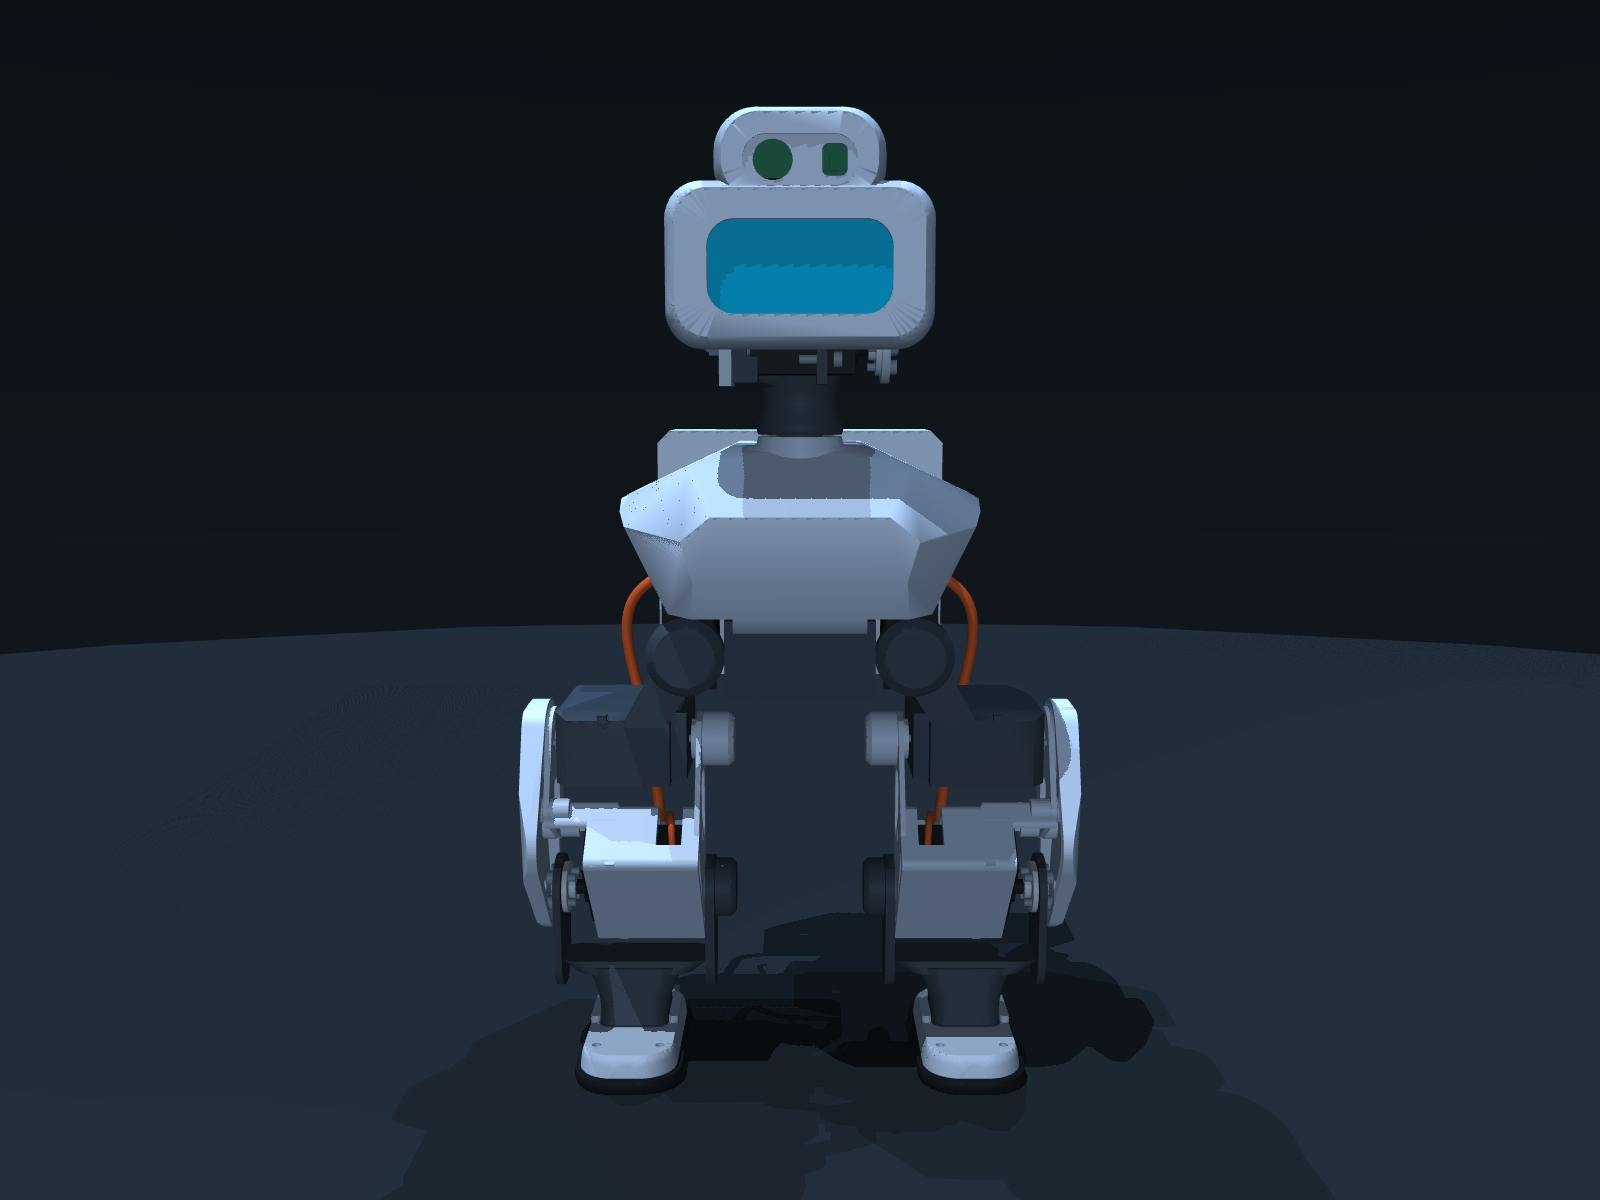
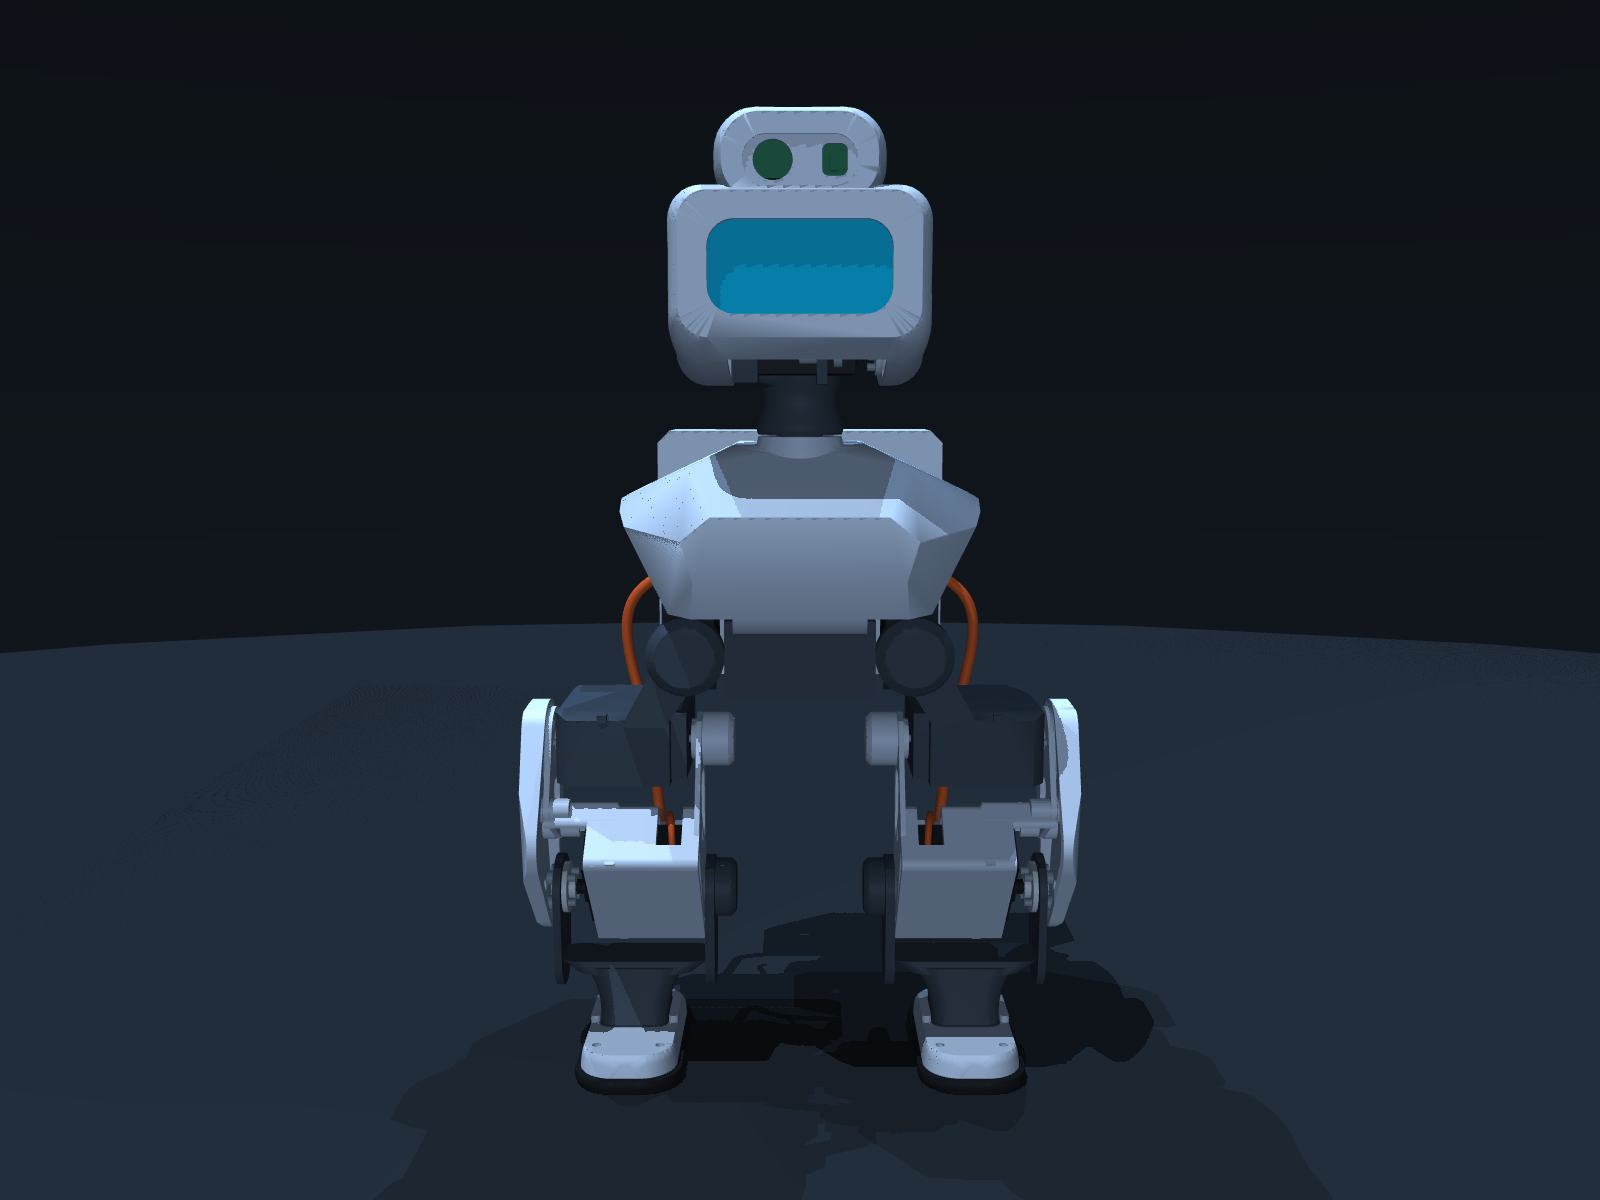
fix(cad): enclose head_front cheeks over head_pitch yokes and widen backpack wire portal

diff --git a/src/cad/monocoque.py b/src/cad/monocoque.py
@@ -636,25 +636,25 @@ def sole_tread():
 
 @cache
 def head_front():
-    """Aero visor helmet clearing camera/neck_link cleanly with >=1.85 mm sloped PLA walls."""
-    w = 2.06
-    wr = 2.26
-    wb = 2.38
+    """Enclosed aero visor helmet shielding head_pitch servo & yokes with >=1.85 mm PLA walls."""
+    w = 2.24
+    wr = 2.24
+    wb = 2.42
     main_out = _loft_stations((
-        (-22.0, 74.0, 12.0, 50.5, 10.0),
-        ( -9.0, 86.0, 12.0, 53.5, 11.0),
-        ( 14.0, 90.5,  8.0, 54.0, 13.0),
-        ( 39.0, 91.5, -1.5, 54.0, 13.0),
-        ( 51.0, 89.5, -0.5, 53.0, 12.0),
-        ( 55.5, 83.5,  2.0, 50.5, 11.0),
+        (-23.2, 81.0,  -9.5, 49.8,  9.5),
+        ( -9.0, 88.5, -13.2, 52.0, 10.5),
+        ( 14.0, 89.5, -13.2, 52.4, 11.5),
+        ( 35.0, 89.0,  -8.8, 52.4, 11.5),
+        ( 51.0, 87.5,  -1.5, 51.8, 11.0),
+        ( 55.5, 81.5,   1.8, 49.8, 10.0),
     ))
     main_in = _loft_stations((
-        (-19.8, 74.0 - 2 * wr, 12.0 + wb, 50.5 - wr,  8.0),
-        ( -9.0, 86.0 - 2 * wr, 12.0 + wb, 53.5 - wr,  9.0),
-        ( 14.0, 90.5 - 2 * w,   8.0 + wb, 54.0 - w,  11.0),
-        ( 39.0, 91.5 - 2 * w,  -1.5 + w,  54.0 - w,  11.0),
-        ( 51.0, 89.5 - 2 * w,  -0.5 + w,  53.0 - w,  10.0),
-        ( 53.2, 83.5 - 2 * w,   2.0 + w,  50.5 - w,   9.0),
+        (-20.8, 81.0 - 2 * wr,  -9.5 + wb, 49.8 - wr,  7.5),
+        ( -9.0, 88.5 - 2 * wr, -13.2 + wb, 52.0 - wr,  8.5),
+        ( 14.0, 89.5 - 2 * w,  -13.2 + wb, 52.4 - w,   9.5),
+        ( 35.0, 89.0 - 2 * w,   -8.8 + wb, 52.4 - w,   9.5),
+        ( 51.0, 87.5 - 2 * w,   -1.5 + wb, 51.8 - w,   9.0),
+        ( 53.2, 81.5 - 2 * w,    1.8 + w,  49.8 - w,   8.0),
     ))
     # Smooth streamlined teardrop dorsal wave enclosing Camera (-9.0) & ToF (+11.5) cleanly.
     wave_out = _loft_stations((
@@ -665,11 +665,11 @@ def head_front():
         ( 54.8, 52.0, 46.5, 74.8, 12.5),
     ))
     wave_in = _loft_stations((
-        ( -4.5, 18.0, 38.0, 51.0 - 2.5,  1.8),
-        (  8.0, 34.0, 38.0, 63.0 - 2.5,  8.0),
-        ( 28.0, 43.0, 38.0, 75.5 - 2.5, 10.5),
-        ( 46.0, 46.0, 38.0, 74.5,       11.0),
-        ( 52.2, 42.0, 42.0, 71.5,       10.0),
+        ( -4.5, 19.0, 38.0, 51.0 - 2.3,  1.8),
+        (  8.0, 38.0, 38.0, 63.0 - 2.3,  8.5),
+        ( 28.0, 50.8, 38.0, 75.5 - 2.3, 11.5),
+        ( 46.0, 51.8, 38.0, 74.8,       11.5),
+        ( 52.2, 46.5, 42.0, 71.8,       10.0),
     ))
 
     outer = (main_out + wave_out).clean()
@@ -686,23 +686,22 @@ def head_front():
     # Rounded rear cover bay cleanly clears head_rear_cover (Z in [16, 38]).
     part -= _rounded_stadium(58.5, 22.0, 6.5, 36.0, center=(-34.5, 0.0, 27.0))
 
-    # Internal cheek shelves clipped cleanly inside outer hull before uniting full 360-degree pitch yokes.
-    ribs = (
-        box((16, 16, 2.4), (0, 37, 21))
-        + box((16, 16, 2.4), (0, -35, 21))
-    )
-    part += (ribs & outer).clean()
-
+    # Fuse horn_plate & bearing_plate solidly down into helmet floor and side cheek walls.
     st_hp = STATION_BY_JOINT['head_pitch']
     ml_hp = st_hp.moving_location
-    part += ml_hp * horn_plate(3.0)
-    part += ml_hp * Pos(0, 0, IDLER_SEAT_TOP - 4.5) * bearing_plate(False)
-    part += box((20, 3.0, 22), (0, 31.5, 11.0))
-    part += box((20, 4.5, 22), (0, -27.25, 11.0))
+    internals = (
+        ml_hp * horn_plate(3.0)
+        + ml_hp * Pos(0, 0, IDLER_SEAT_TOP - 4.5) * bearing_plate(False)
+        + box((20, 3.0, 26.0), (0, 31.5, -1.0))
+        + box((20, 4.5, 26.0), (0, -27.25, -1.0))
+        + box((14, 15.0, 3.0), (0, 38.5, 11.0))
+        + box((14, 15.0, 3.0), (0, -35.5, 11.0))
+    )
+    part += (internals & outer).clean()
 
     part = recut_horn_and_bearing(part, ml_hp, double=False)
-    # Clear neck_link & head_pitch servo across full -30° .. +45° pitch sweep (Y in [-25, +25] inside yokes).
-    part -= box((72, 50, 42), (6, 0, -2.0))
+    # Central neck & horn drop-in tunnel strictly inside Y in [-25.0, +29.9], leaving both cheeks sealed.
+    part -= box((76, 54.9, 35.0), (6.0, 2.45, -3.5))
     # Clearances for 2.42" OLED, forehead Camera & ToF, mic, ESP32 head MCU & rear cable bay.
     part -= OLED_LOCATION * box((44.6, 76.0, 6.4), (0, 0, 2.4))
     part -= CAMERA_LOCATION * box((26.0, 26.0, 14.2), (0, 0, 6.9))

diff --git a/tests/cad/test_v2_mechanical_interfaces.py b/tests/cad/test_v2_mechanical_interfaces.py
@@ -277,7 +277,7 @@ def test_verified_electronics_envelopes_and_universal_cam_a_clear_head_and_backp
 
 @pytest.mark.slow
 def test_head_pitch_multi_pose_sweep_with_wiring():
-    for pose in ({'head_pitch': 0.785}, {'head_pitch': -0.523}):
+    for pose in ({'head_pitch': 0.785}, {'head_pitch': -0.523}, {'head_pitch': -0.0325}, {'head_yaw': -1.1775}):
         report = interference(build_assembly('rpi5', pose=pose, wiring=True))
         assert report['passed'], (pose, report['interferences'])
 
@@ -308,4 +308,14 @@ def test_wave15_dfam_wall_fixes_hold_without_thin_wafers():
         assert rep["observed_below_requirement"] is False, (
             name, mat, rep["sampled_min_mm"], required_wall(mat),
         )
+
+
+def test_head_front_encloses_neck_pitch_yokes():
+    hf = printable_parts()["head_front"][0]
+    for sign in (-1.0, 1.0):
+        hits = hf.find_intersection_points(
+            Axis(Vector(0.0, sign * 60.0, -5.0), Vector(0.0, -sign, 0.0))
+        )
+        ys = sorted(abs(pt.Y) for pt, _ in hits if abs(pt.Y) >= 34.0)
+        assert len(ys) >= 2 and ys[-1] - ys[0] >= 1.8, (sign, ys)
 

diff --git a/tests/hardware/test_esp32_model.py b/tests/hardware/test_esp32_model.py
@@ -36,10 +36,10 @@ def test_esp32_mujoco_compilation_and_mass_budget():
         MJCF_PATH,
         min_mass=TOTAL_MASS_KG - 1e-6,
         max_mass=TOTAL_MASS_KG + 1e-6,
-        base_mass_min=0.578958 - 1e-6,
-        base_mass_max=0.578958 + 1e-6,
-        base_ipos_z_min=-0.015274 - 1e-6,
-        base_ipos_z_max=-0.015274 + 1e-6,
+        base_mass_min=0.578706 - 1e-6,
+        base_mass_max=0.578706 + 1e-6,
+        base_ipos_z_min=-0.015293 - 1e-6,
+        base_ipos_z_max=-0.015293 + 1e-6,
         n_steps=50,
     )
 
@@ -50,9 +50,9 @@ def test_esp32_urdf_structure_and_inertials():
         robot_name="cyberduck_v2",
         min_total_mass=TOTAL_MASS_KG - 1e-6,
         max_total_mass=TOTAL_MASS_KG + 1e-6,
-        min_base_mass=0.578958 - 1e-6,
-        max_base_mass=0.578958 + 1e-6,
-        base_inertial_z_max=-0.015274 + 1e-6,
+        min_base_mass=0.578706 - 1e-6,
+        max_base_mass=0.578706 + 1e-6,
+        base_inertial_z_max=-0.015293 + 1e-6,
     )
 
 

diff --git a/tests/hardware/test_rpi5_model.py b/tests/hardware/test_rpi5_model.py
@@ -36,10 +36,10 @@ def test_rpi5_mujoco_compilation_and_mass_budget():
         MJCF_PATH,
         min_mass=TOTAL_MASS_KG - 1e-6,
         max_mass=TOTAL_MASS_KG + 1e-6,
-        base_mass_min=0.578958 - 1e-6,
-        base_mass_max=0.578958 + 1e-6,
-        base_ipos_z_min=-0.015274 - 1e-6,
-        base_ipos_z_max=-0.015274 + 1e-6,
+        base_mass_min=0.578706 - 1e-6,
+        base_mass_max=0.578706 + 1e-6,
+        base_ipos_z_min=-0.015293 - 1e-6,
+        base_ipos_z_max=-0.015293 + 1e-6,
         n_steps=50,
     )
 
@@ -50,8 +50,8 @@ def test_rpi5_urdf_structure_and_inertials():
         robot_name="cyberduck_v2",
         min_total_mass=TOTAL_MASS_KG - 1e-6,
         max_total_mass=TOTAL_MASS_KG + 1e-6,
-        min_base_mass=0.578958 - 1e-6,
-        max_base_mass=0.578958 + 1e-6,
+        min_base_mass=0.578706 - 1e-6,
+        max_base_mass=0.578706 + 1e-6,
     )
 
 

diff --git a/tests/hardware/test_pizero2w_model.py b/tests/hardware/test_pizero2w_model.py
@@ -36,8 +36,8 @@ def test_pizero2w_mujoco_compilation_and_mass_budget():
         MJCF_PATH,
         min_mass=TOTAL_MASS_KG - 1e-6,
         max_mass=TOTAL_MASS_KG + 1e-6,
-        base_mass_min=0.578958 - 1e-6,
-        base_mass_max=0.578958 + 1e-6,
+        base_mass_min=0.578706 - 1e-6,
+        base_mass_max=0.578706 + 1e-6,
         n_steps=50,
     )
 
@@ -48,8 +48,8 @@ def test_pizero2w_urdf_structure_and_inertials():
         robot_name="cyberduck_v2",
         min_total_mass=TOTAL_MASS_KG - 1e-6,
         max_total_mass=TOTAL_MASS_KG + 1e-6,
-        min_base_mass=0.578958 - 1e-6,
-        max_base_mass=0.578958 + 1e-6,
+        min_base_mass=0.578706 - 1e-6,
+        max_base_mass=0.578706 + 1e-6,
     )
 
 

diff --git a/src/cad/armor/backpacks.py b/src/cad/armor/backpacks.py
@@ -101,7 +101,7 @@ def backpack(variant):
         housing -= box((72.0, 10.0, 18.0), (-4.0, 59.0, 0.0))
         housing -= box((10.0, 84.0, 18.0), (-52.0, 0.0, 0.0))
     # Minimal wire portals: narrow center-spine head_harness channel behind neck + flush collar-only leg exits backed by solid wall.
-    housing -= box((28.0, 13.0, collar + 5.8), (39.5, 0, -depth / 2 - collar / 2 + 1.9))
+    housing -= box((28.0, 18.0, collar + 5.8), (39.5, 0, -depth / 2 - collar / 2 + 1.9))
     for sy in (-1, 1):
         housing -= box((16.0, 12.0, collar + 0.4), (-3.5, sy * 48.0, -depth / 2 - (collar + 0.4) / 2))
     # Compact, low-profile Pi 4B prioritized I/O bays (also fits Pi 5) plus pizero2w & esp32s3 slots.

diff --git a/tests/robot/test_urdf_model.py b/tests/robot/test_urdf_model.py
@@ -129,5 +129,5 @@ def test_urdf_head_link_com_synchronization():
     root = ET.parse(URDF_PATH).getroot()
     head = root.find("link[@name='head']")
     xyz = [float(value) for value in head.find("inertial/origin").get("xyz").split()]
-    np.testing.assert_allclose(xyz, [0.025233, 0.000626, 0.032953], atol=1e-9)
+    np.testing.assert_allclose(xyz, [0.022765, 0.000378, 0.028656], atol=1e-9)
     assert verify_urdf_physics(str(MODEL_PATH), str(URDF_PATH))["valid"]

diff --git a/tests/robot/test_interactive_viewer.py b/tests/robot/test_interactive_viewer.py
@@ -41,7 +41,7 @@ def test_readme_comprehensive_content():
 
     # 1. Overview: MG996R hardware target and CAD-synced V2 simulation parameters
     assert "MG996R" in content
-    assert "1.262" in content
+    assert "1.263" in content
     assert "0.202" in content
     assert "head_tof" in content
     assert "811" not in content

diff --git a/src/robot/robot_spec.py b/src/robot/robot_spec.py
@@ -16,7 +16,7 @@ SERVO_MODEL = "MG996R"
 SERVO_STALL_TORQUE_NM = 1.0
 SERVO_MAX_SPEED_RAD_S = 6.0
 
-TOTAL_MASS_KG = 1.262072
+TOTAL_MASS_KG = 1.262628
 BASE_HEIGHT_M = 0.202
 THIGH_LINK_M = 0.060
 SHIN_LINK_M = 0.054

diff --git a/README.md b/README.md
@@ -40,7 +40,7 @@ The robot uses eight MG996R servos, split into two neck joints and six leg joint
 
 The MG996R frame is modeled parametrically with `build123d` in `src/cad/`. Automated CAD checks pass with zero assembly interferences across all three board variants, full joint motion sweeps, wire routing lengths, a full-configuration mass budget below `1.5 kg`, and DfAM wall-thickness checks across 28 printable parts at 512 samples per part. No physical robot has been printed, assembled, or weighed yet, so fastener fit, print orientation, mechanical backlash, and usable servo torque remain to be verified on real hardware.
 
-Geometry and link inertials in `src/robot/cyberduck_v2.xml`, `src/robot/cyberduck_v2_robot.xml`, and `src/robot/cyberduck_v2.urdf` are synced directly from the MG996R CAD model assuming 60% FDM infill for printed parts. Base height is `0.202 m`, thigh length is `60 mm`, shin length is `54 mm`, and each foot sole collider measures `82 x 46 x 12 mm` resting flat at `Z = 0.000 m`. Total simulated mass is `1.262 kg`, calculated from CAD link inertials and not yet weighed on an assembled robot.
+Geometry and link inertials in `src/robot/cyberduck_v2.xml`, `src/robot/cyberduck_v2_robot.xml`, and `src/robot/cyberduck_v2.urdf` are synced directly from the MG996R CAD model assuming 60% FDM infill for printed parts. Base height is `0.202 m`, thigh length is `60 mm`, shin length is `54 mm`, and each foot sole collider measures `82 x 46 x 12 mm` resting flat at `Z = 0.000 m`. Total simulated mass is `1.263 kg`, calculated from CAD link inertials and not yet weighed on an assembled robot.
 
 Simulation sensors include a trunk IMU, dual foot contact sensors, position and velocity sensors for all eight joints, a head camera, and a single brow-mounted `head_tof` rangefinder with a `2.0 m` cutoff. Hardware builds also place a `128x64` SPI SSD1309 OLED screen behind the visor for eye expressions.
 
@@ -149,9 +149,9 @@ Notes for importing the robot into Isaac Sim or Isaac Lab are in [docs/isaac_v2_
 
 ## Current status
 
-- Branch and state: `main` at code commit `5317b516` and handover commit `763f4163`, with MG996R CAD synced to MJCF and URDF at `1.262 kg`, `0.202 m` base height, and a `37`-dim actor / `48`-dim critic control contract at `50 Hz`; no GPU-trained V2 `.pt` checkpoint or release anchor tag exists yet.
-- Completed work: fixed RL training and simulation audit bugs, hardened fail-closed runtime safety for Raspberry Pi and Dual ESP32-S3, cleared CAD assembly interference and DfAM wall-thickness checks across 28 printable parts, added `ActiveHeadScanner` and `SSD1309Display`, and migrated the stack to the `head_tof` single rangefinder and 37-dim observation layout.
-- Verification: `628 passed` across `tests/robot`, `tests/sim`, and `tests/hardware`; `193 passed` across `tests/cad --run-slow`; `python duck.py train --dry-run` and `python duck.py verify` both exit `0`.
+- Branch and state: `main` at code commit `5317b516` and handover commit `763f4163`, with MG996R CAD synced to MJCF and URDF at `1.263 kg`, `0.202 m` base height, and a `37`-dim actor / `48`-dim critic control contract at `50 Hz`; no GPU-trained V2 `.pt` checkpoint or release anchor tag exists yet.
+- Completed work: fixed RL training and simulation audit bugs, hardened fail-closed runtime safety for Raspberry Pi and Dual ESP32-S3, enclosed the `head_front` helmet cheeks over `head_pitch` yokes, widened the backpack wire harness portal, cleared CAD assembly interference and DfAM wall-thickness checks, added `ActiveHeadScanner` and `SSD1309Display`, and migrated the stack to the `head_tof` single rangefinder and 37-dim observation layout.
+- Verification: `628 passed` across `tests/robot`, `tests/sim`, and `tests/hardware`; `194 passed` across `tests/cad --run-slow`; `python duck.py train --dry-run` and `python duck.py verify` both exit `0`.
 - Next step: run full GPU training through `pretrain_bc.py`, Asymmetric PPO, and ELU FastSAC under the 37-dim contract, then print, assemble, and bench-test the MG996R hardware before tagging a validated V2 checkpoint.
 
 ## License
